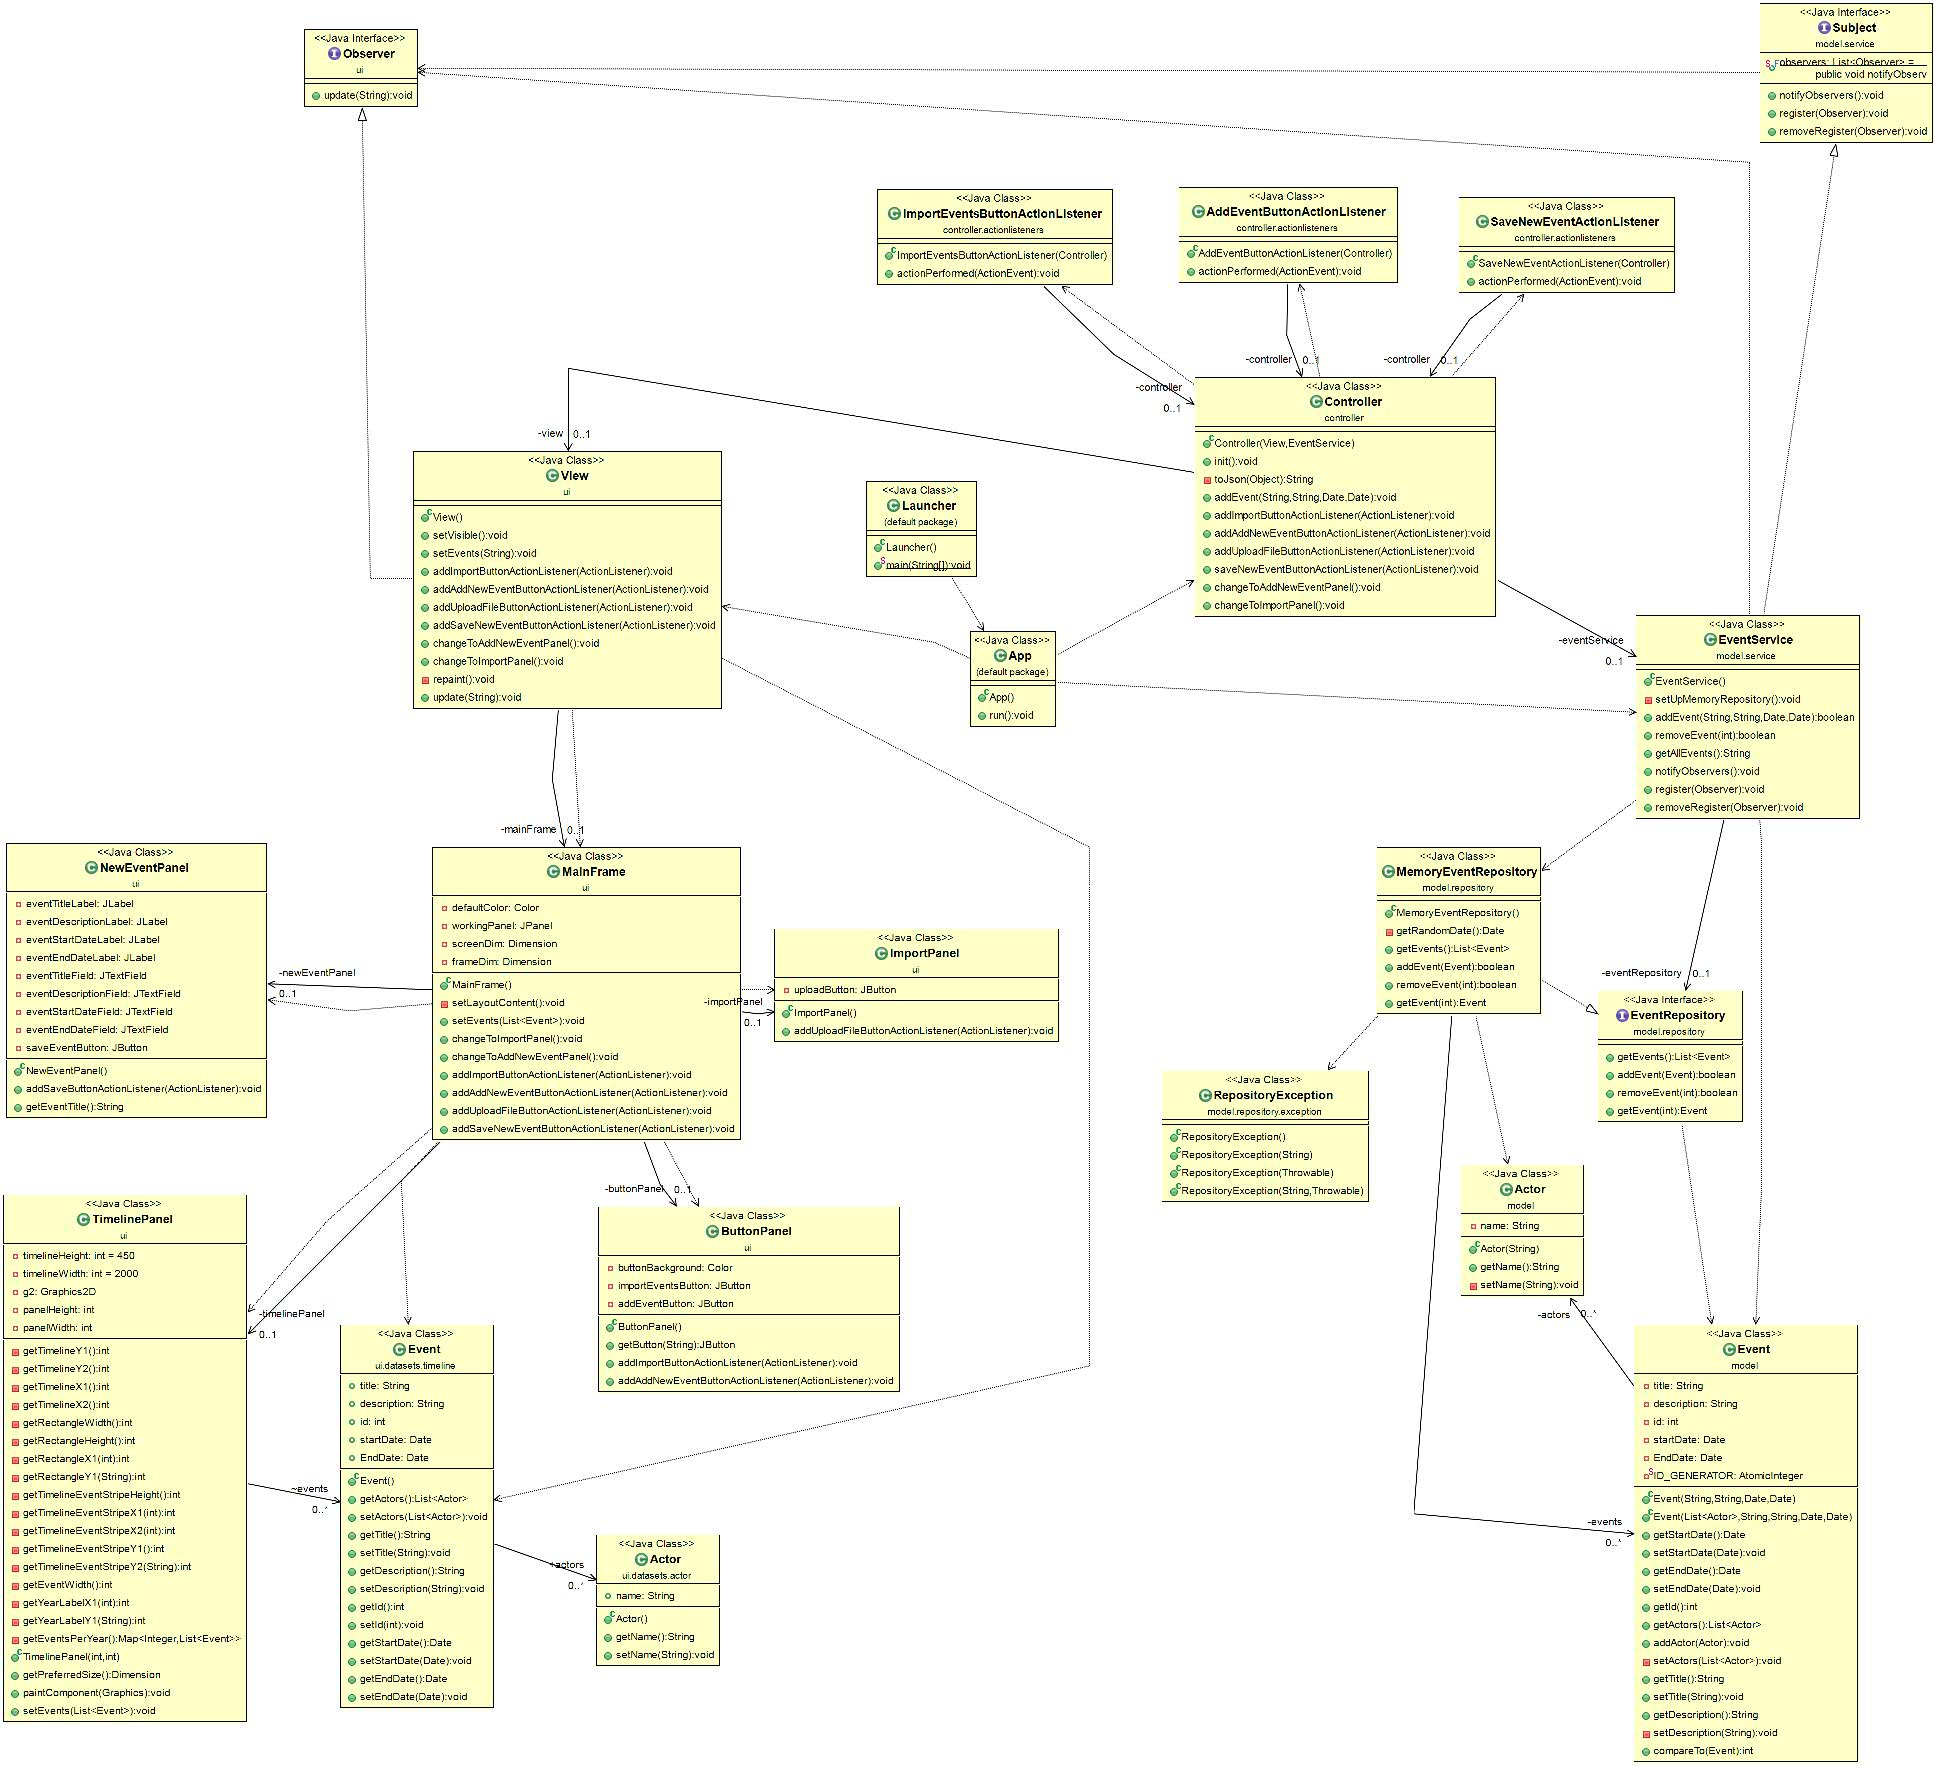
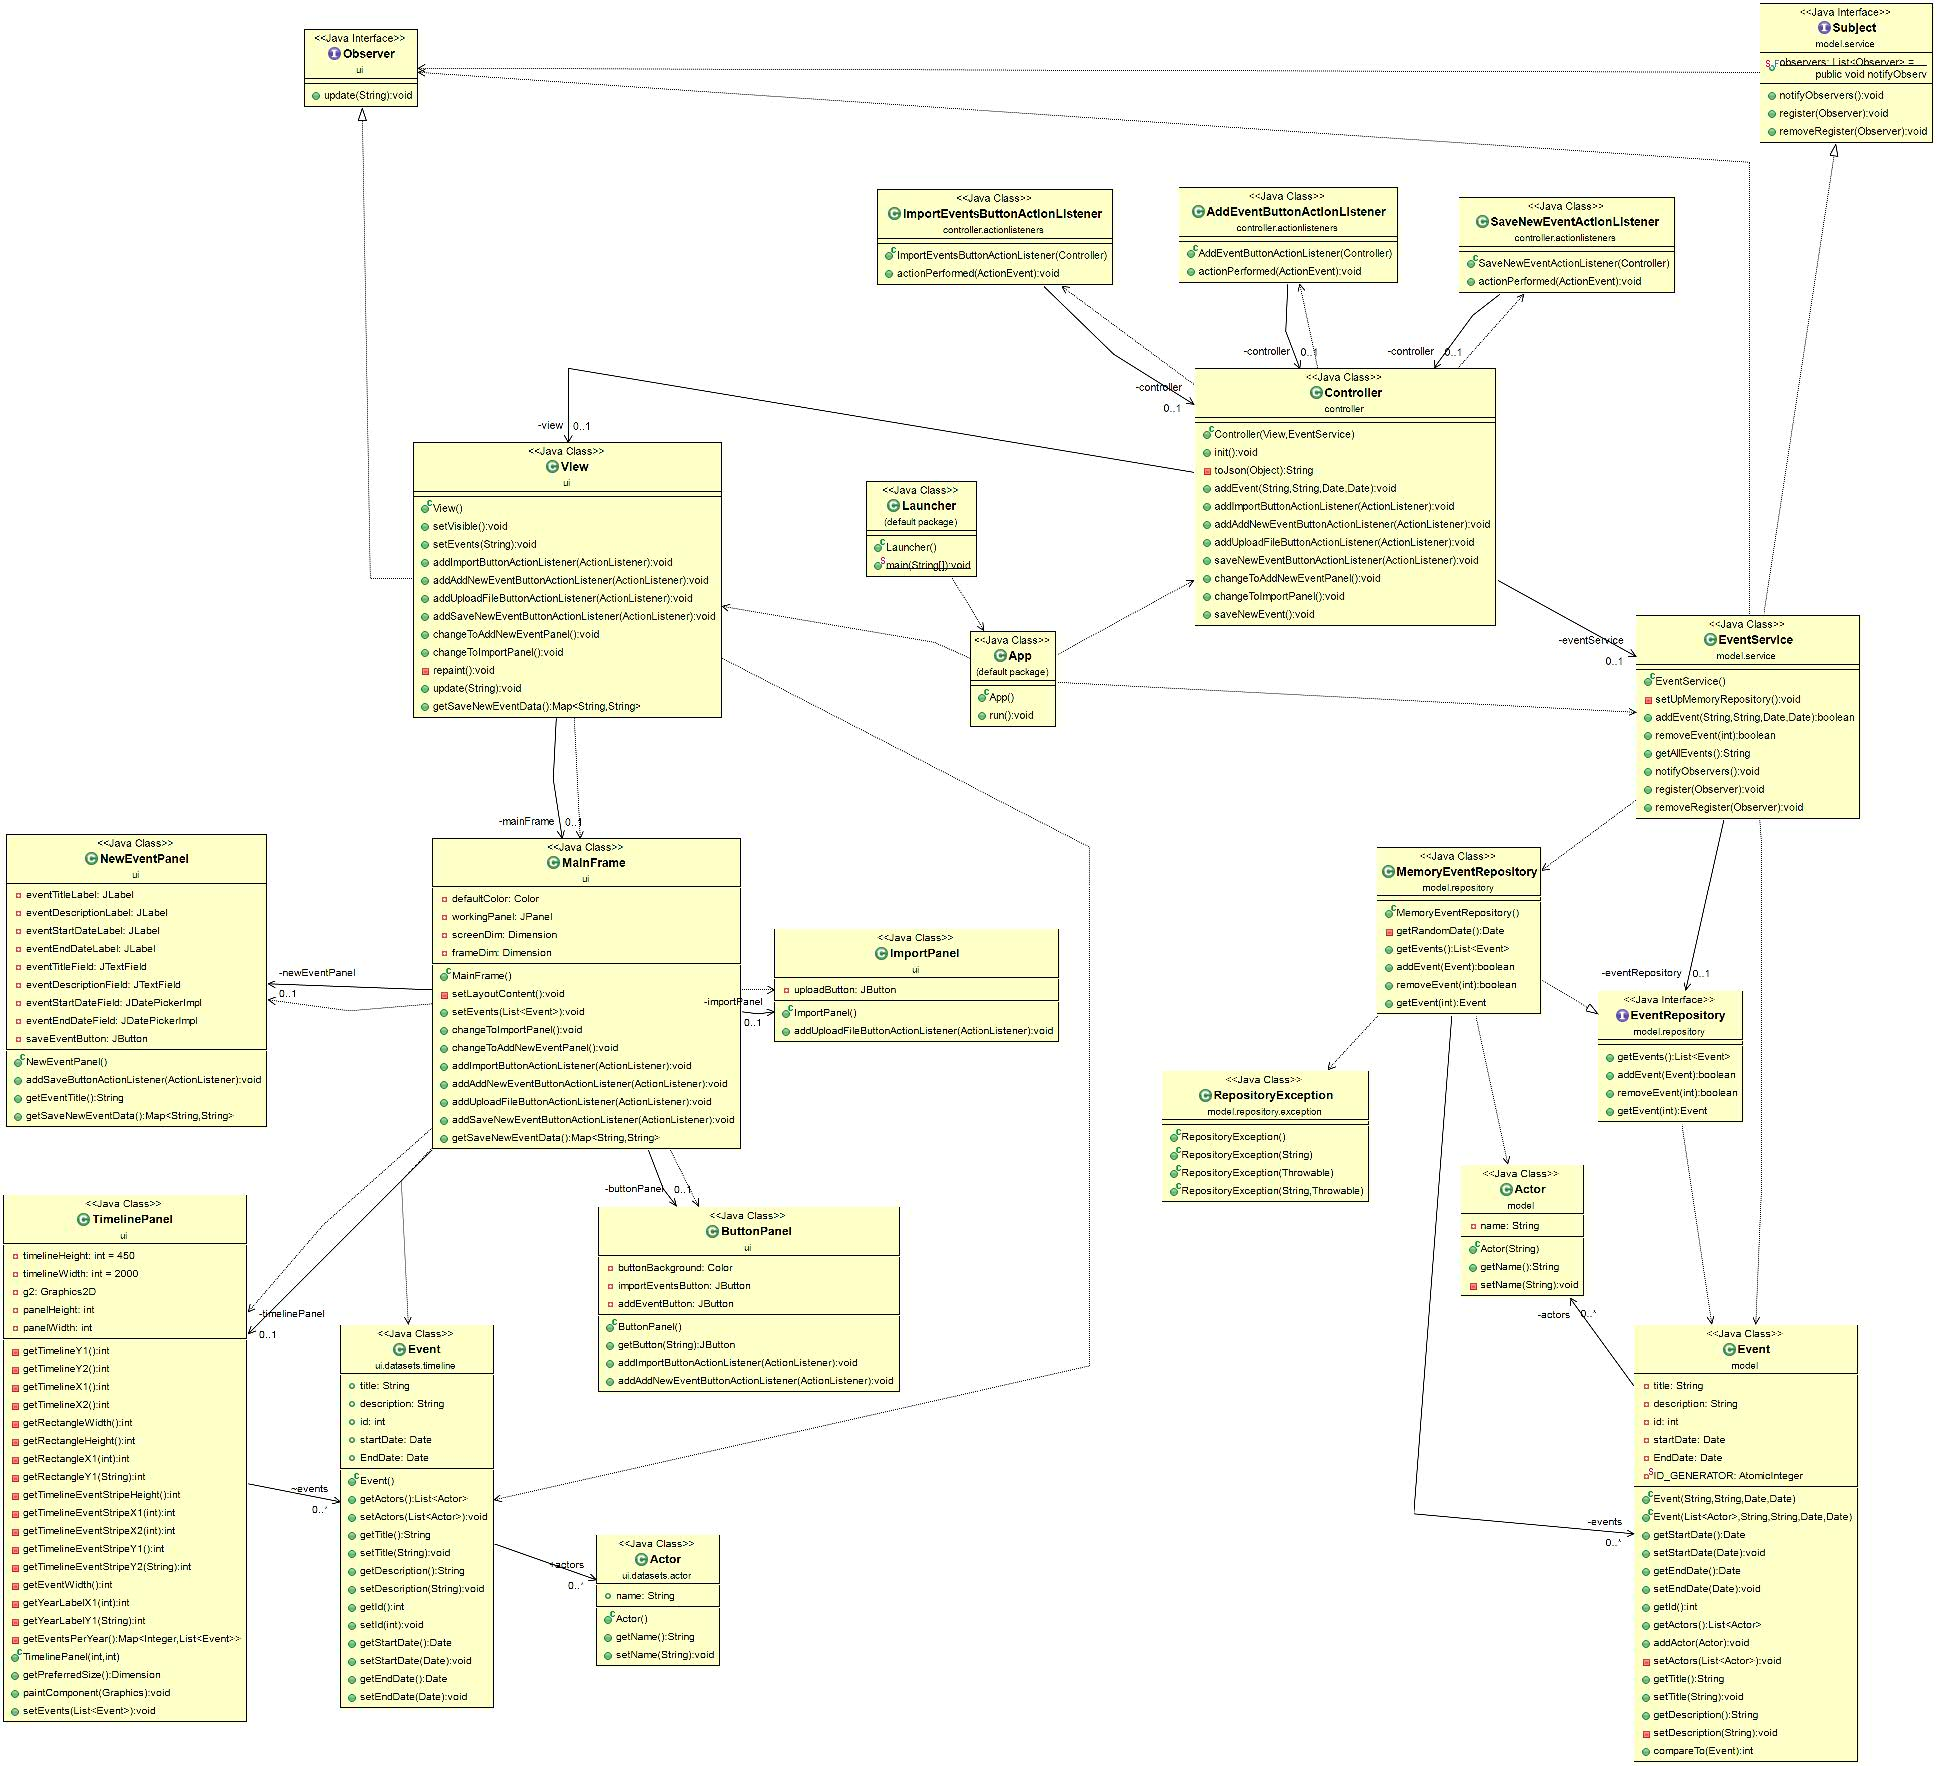
Date picker implemented

diff --git a/src/ui/NewEventPanel.java b/src/ui/NewEventPanel.java
@@ -3,11 +3,18 @@ package ui;
 import java.awt.GridBagConstraints;
 import java.awt.GridBagLayout;
 import java.awt.event.ActionListener;
+import java.util.HashMap;
+import java.util.Map;
+import java.util.Properties;
 
 import javax.swing.JButton;
 import javax.swing.JLabel;
 import javax.swing.JPanel;
 import javax.swing.JTextField;
+
+import org.jdatepicker.impl.JDatePanelImpl;
+import org.jdatepicker.impl.JDatePickerImpl;
+import org.jdatepicker.impl.UtilDateModel;
 
 
 
@@ -21,8 +28,8 @@ public class NewEventPanel extends JPanel{
 	private JTextField eventTitleField;  
 	private JTextField eventDescriptionField; 
 	//TODO implement date picker
-	private JTextField eventStartDateField; 
-	private JTextField eventEndDateField; 
+	private JDatePickerImpl eventStartDateField; 
+	private JDatePickerImpl eventEndDateField; 
 	
 	private JButton saveEventButton; 
 	
@@ -30,15 +37,33 @@ public class NewEventPanel extends JPanel{
 		super(); 
 		this.eventTitleField = new JTextField();
 		this.eventDescriptionField = new JTextField();
-		this.eventStartDateField = new JTextField();
-		this.eventEndDateField = new JTextField();
-		
+
 		this.eventTitleLabel = new JLabel("Title");
 		this.eventDescriptionLabel = new JLabel("Description");
 		this.eventStartDateLabel = new JLabel("Start Date"); 
 		this.eventEndDateLabel = new JLabel("End Date"); 
 		
 		this.saveEventButton = new JButton("Save"); 
+		
+		
+
+		//Initialize datepickers
+
+		UtilDateModel model = new UtilDateModel();
+		Properties p = new Properties();
+		p.put("text.today", "Today");
+		p.put("text.month", "Month");
+		p.put("text.year", "Year");
+		JDatePanelImpl datePanel = new JDatePanelImpl(model, p);
+		this.eventStartDateField = new JDatePickerImpl(datePanel, new DateLabelFormatter());
+		
+		model = new UtilDateModel();
+		p = new Properties();
+		p.put("text.today", "Today");
+		p.put("text.month", "Month");
+		p.put("text.year", "Year");
+		datePanel = new JDatePanelImpl(model, p);
+		this.eventEndDateField = new JDatePickerImpl(datePanel, new DateLabelFormatter());
 		
 		
 		//GridbagLayout init
@@ -89,7 +114,6 @@ public class NewEventPanel extends JPanel{
 		gbc.gridx = 0;
 		
 		this.add(this.saveEventButton, gbc);
-		
 	}	
 	
 	public void addSaveButtonActionListener(ActionListener addButtonActionListener){
@@ -99,5 +123,13 @@ public class NewEventPanel extends JPanel{
 	public String getEventTitle(){
 		return this.eventTitleField.getText();
 	}
-	
+
+	public Map<String, String> getSaveNewEventData(){
+		Map<String, String> result = new HashMap<String, String>(); 
+		result.put("title",this.eventDescriptionField.getText() ); 
+		result.put("description", this.eventDescriptionField.getText()); 
+		result.put("startDate", this.eventStartDateField.toString()); 
+		result.put("endDate", this.eventEndDateField.toString()); 
+		return result; 
+	}
 }

diff --git a/src/controller/Controller.java b/src/controller/Controller.java
@@ -2,6 +2,7 @@ package controller;
 
 import java.awt.event.ActionListener;
 import java.util.Date;
+import java.util.Map;
 
 import com.google.gson.Gson;
 
@@ -46,7 +47,6 @@ public class Controller {
 	
 	public void addEvent(String title, String description, Date startDate, Date endDate){
 		this.eventService.addEvent(title, description, startDate, endDate); 
-		//this.view.setEvents(toJson(eventService.getAllEvents()));
 	}
 	
 	public void addImportButtonActionListener(ActionListener importButtonActionListener){
@@ -70,6 +70,12 @@ public class Controller {
 	
 	public void changeToImportPanel(){
 		this.view.changeToImportPanel();
+	}
+	
+	public void saveNewEvent(){
+		Map<String, String> newEvent = this.view.getSaveNewEventData(); 
+		System.out.println(newEvent.get("startDate")+" ..........................");
+		this.eventService.addEvent(newEvent.get("title"), newEvent.get("description"), new Date(), new Date()); 
 	}
 	
 }

diff --git a/src/ui/DateLabelFormatter.java b/src/ui/DateLabelFormatter.java
@@ -1,0 +1,29 @@
+package ui;
+
+import java.text.ParseException;
+import java.text.SimpleDateFormat;
+import java.util.Calendar;
+
+import javax.swing.JFormattedTextField.AbstractFormatter;
+
+public class DateLabelFormatter extends AbstractFormatter {
+
+	  private SimpleDateFormat dateFormatter = new SimpleDateFormat("dd-MM-yyyy");
+
+	    @Override
+	    public Object stringToValue(String text) throws ParseException {
+	        return dateFormatter.parseObject(text);
+	    }
+
+	    @Override
+	    public String valueToString(Object value) throws ParseException {
+	        if (value != null) {
+	            Calendar cal = (Calendar) value;
+	            return dateFormatter.format(cal.getTime());
+	        }
+
+	        return "";
+	    }
+
+	
+}

diff --git a/src/controller/actionlisteners/SaveNewEventActionListener.java b/src/controller/actionlisteners/SaveNewEventActionListener.java
@@ -16,16 +16,7 @@ public class SaveNewEventActionListener implements ActionListener {
 	
 	@Override
 	public void actionPerformed(ActionEvent arg0) { 
-		//test
-		this.controller.addEvent("Niewetitle", "DXFHCGJVHKBNK", new Date(), new Date());
-		System.out.println("Nieuwe toegevoedg");
-		/*
-		String title = this.eventTitleField.getText(); 
-		String description = this.eventDescriptionField.getText(); 
-		String startDate = this.eventStartDateField.getText(); 
-		String endDate = this.eventEndDateField.getText();
-		controller.addEvent(title, description, new Date(), new Date()); 
-		*/
+		this.controller.saveNewEvent();
 	}
 
 }

diff --git a/src/ui/MainFrame.java b/src/ui/MainFrame.java
@@ -7,6 +7,7 @@ import java.awt.GridBagLayout;
 import java.awt.Toolkit;
 import java.awt.event.ActionListener;
 import java.util.List;
+import java.util.Map;
 
 import javax.swing.JFrame;
 import javax.swing.JPanel;
@@ -150,5 +151,9 @@ public class MainFrame extends JFrame{
 	
 	public void addSaveNewEventButtonActionListener(ActionListener saveNewEventActionListener){
 		this.newEventPanel.addSaveButtonActionListener(saveNewEventActionListener);
+	}
+	
+	public Map<String, String> getSaveNewEventData(){
+		return this.newEventPanel.getSaveNewEventData();
 	}
 }

diff --git a/src/ui/View.java b/src/ui/View.java
@@ -3,6 +3,7 @@ package ui;
 import java.awt.event.ActionListener;
 import java.util.ArrayList;
 import java.util.List;
+import java.util.Map;
 
 import javax.swing.JFrame;
 
@@ -72,5 +73,9 @@ public class View implements Observer{
 		System.out.println("EVENTSJSON : "+ eventsJson);
 		this.setEvents(eventsJson);
 		this.repaint();
+	}
+	
+	public Map<String, String> getSaveNewEventData(){
+		return mainFrame.getSaveNewEventData();
 	}
 }
